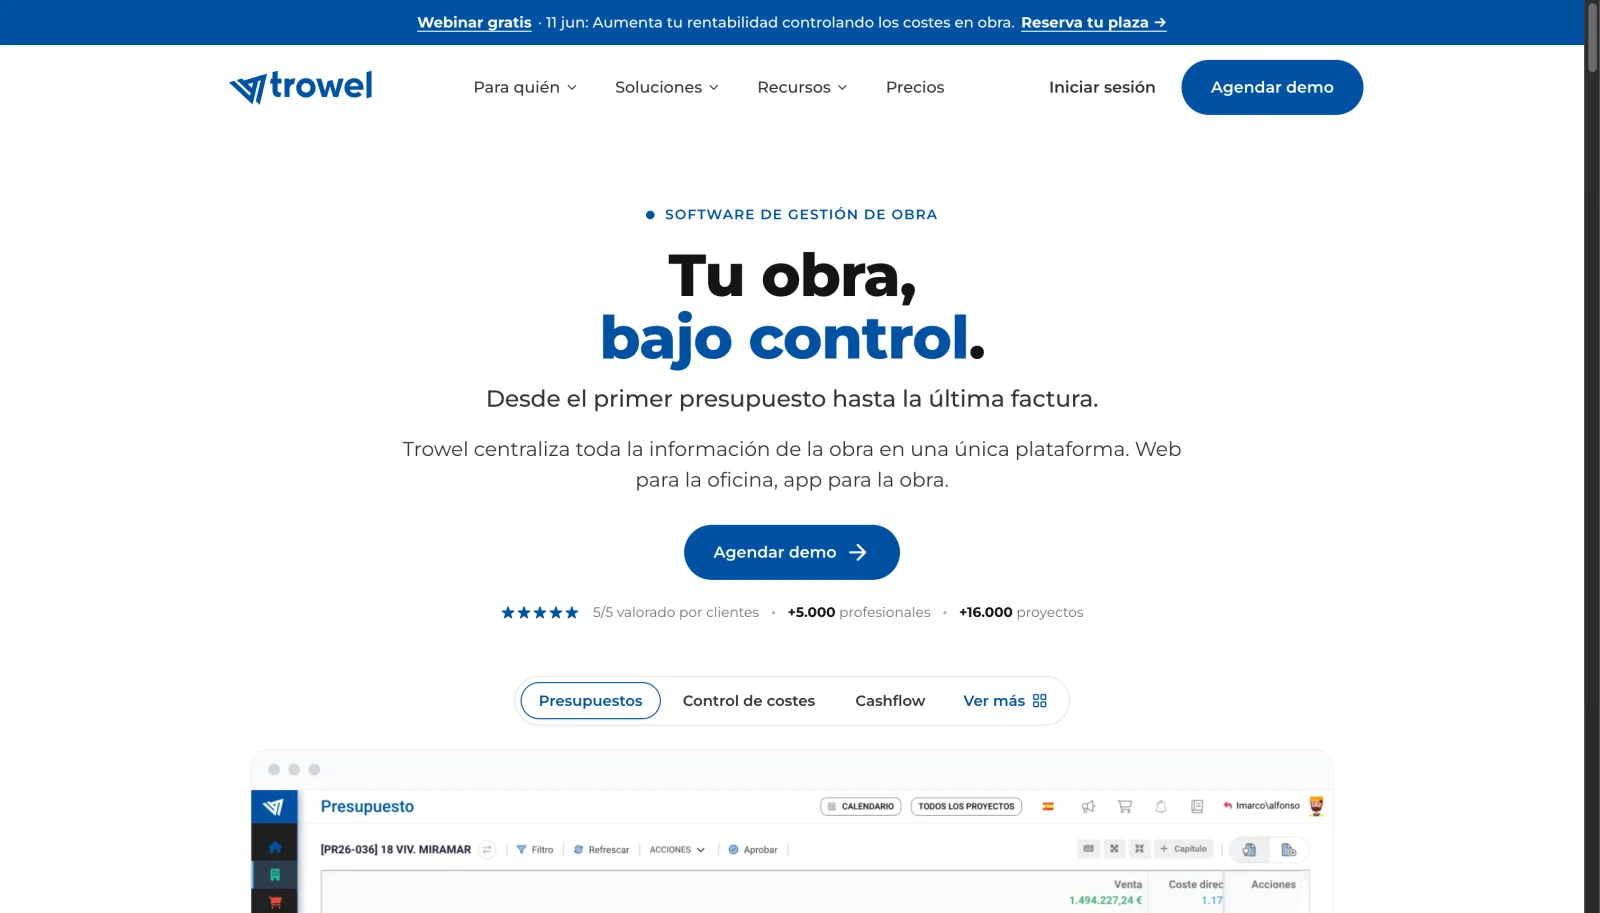
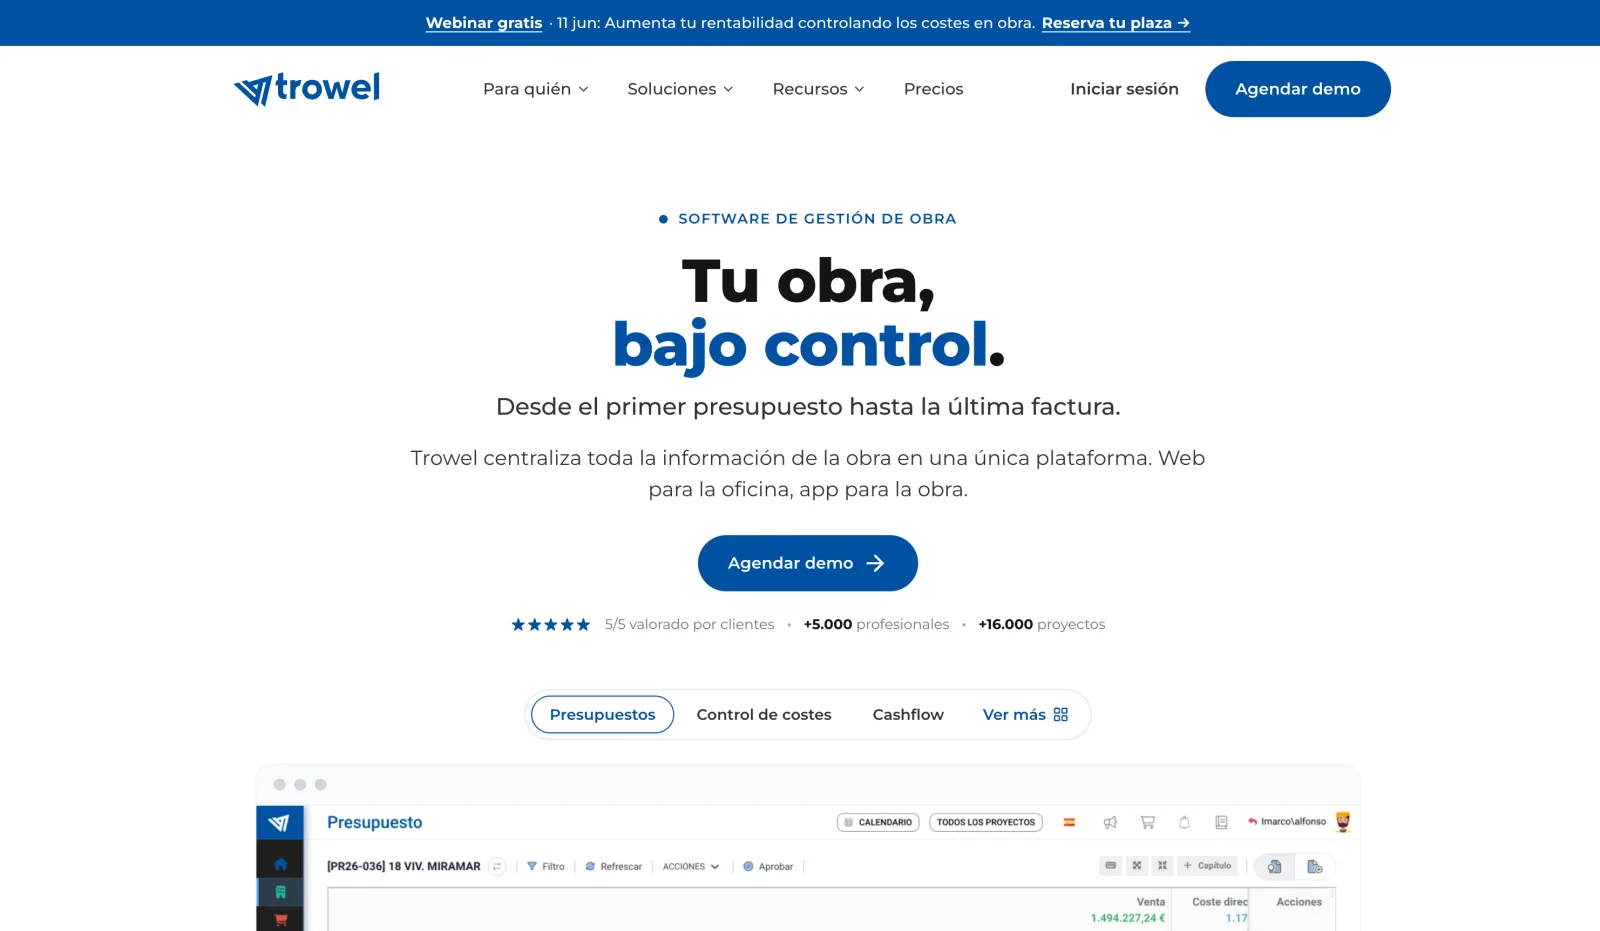
Recorta el borde del hero de TrowelApp y lo usa en listado y detalle
Elimina la franja del scroll del navegador a la derecha de la captura y
emplea la imagen del hero también en la card del índice de proyectos y
como primera imagen de la página de detalle del caso.

diff --git a/proyectos/web-trowelapp.html b/proyectos/web-trowelapp.html
@@ -444,7 +444,7 @@
       <div class="container">
         <div data-reveal style="max-width:980px;margin-inline:auto">
           <figure class="shot">
-            <img src="/assets/img/case-trowelweb/cover.webp" alt="Web comercial de TrowelApp: panel de presupuestos del SaaS de gestión de obra, integrado como visual principal de la home" loading="eager" fetchpriority="high" decoding="async" width="1440" height="1160">
+            <img src="/assets/img/case-trowelweb/home-hero.webp" alt="Home de trowelapp.com: hero «Tu obra, bajo control» con el panel de presupuestos del producto" loading="eager" fetchpriority="high" decoding="async" width="1600" height="931">
             <figcaption>Home de trowelapp.com — el producto en el centro del mensaje «Tu obra, bajo control».</figcaption>
           </figure>
         </div>

diff --git a/src/proyectos/web-trowelapp.html b/src/proyectos/web-trowelapp.html
@@ -386,7 +386,7 @@
       <div class="container">
         <div data-reveal style="max-width:980px;margin-inline:auto">
           <figure class="shot">
-            <img src="/assets/img/case-trowelweb/cover.webp" alt="Web comercial de TrowelApp: panel de presupuestos del SaaS de gestión de obra, integrado como visual principal de la home" loading="eager" fetchpriority="high" decoding="async" width="1440" height="1160">
+            <img src="/assets/img/case-trowelweb/home-hero.webp" alt="Home de trowelapp.com: hero «Tu obra, bajo control» con el panel de presupuestos del producto" loading="eager" fetchpriority="high" decoding="async" width="1600" height="931">
             <figcaption>Home de trowelapp.com — el producto en el centro del mensaje «Tu obra, bajo control».</figcaption>
           </figure>
         </div>

diff --git a/proyectos/index.html b/proyectos/index.html
@@ -245,7 +245,7 @@
           <!-- WEB — Caso de éxito: web comercial de TrowelApp -->
           <article class="project-card" data-cat="web" style="position:relative">
             <div class="project-card__thumb">
-              <img src="/assets/img/case-trowelweb/cover.webp" alt="Portada del caso: web comercial de TrowelApp (trowelapp.com), con un mockup del producto" loading="lazy" decoding="async">
+              <img src="/assets/img/case-trowelweb/home-hero.webp" alt="Home de trowelapp.com: hero «Tu obra, bajo control» con el panel de presupuestos del producto" loading="lazy" decoding="async">
               <div class="project-card__overlay">
                 <span class="btn btn--primary">Ver caso de éxito</span>
               </div>

diff --git a/src/proyectos/index.html b/src/proyectos/index.html
@@ -187,7 +187,7 @@
           <!-- WEB — Caso de éxito: web comercial de TrowelApp -->
           <article class="project-card" data-cat="web" style="position:relative">
             <div class="project-card__thumb">
-              <img src="/assets/img/case-trowelweb/cover.webp" alt="Portada del caso: web comercial de TrowelApp (trowelapp.com), con un mockup del producto" loading="lazy" decoding="async">
+              <img src="/assets/img/case-trowelweb/home-hero.webp" alt="Home de trowelapp.com: hero «Tu obra, bajo control» con el panel de presupuestos del producto" loading="lazy" decoding="async">
               <div class="project-card__overlay">
                 <span class="btn btn--primary">Ver caso de éxito</span>
               </div>
